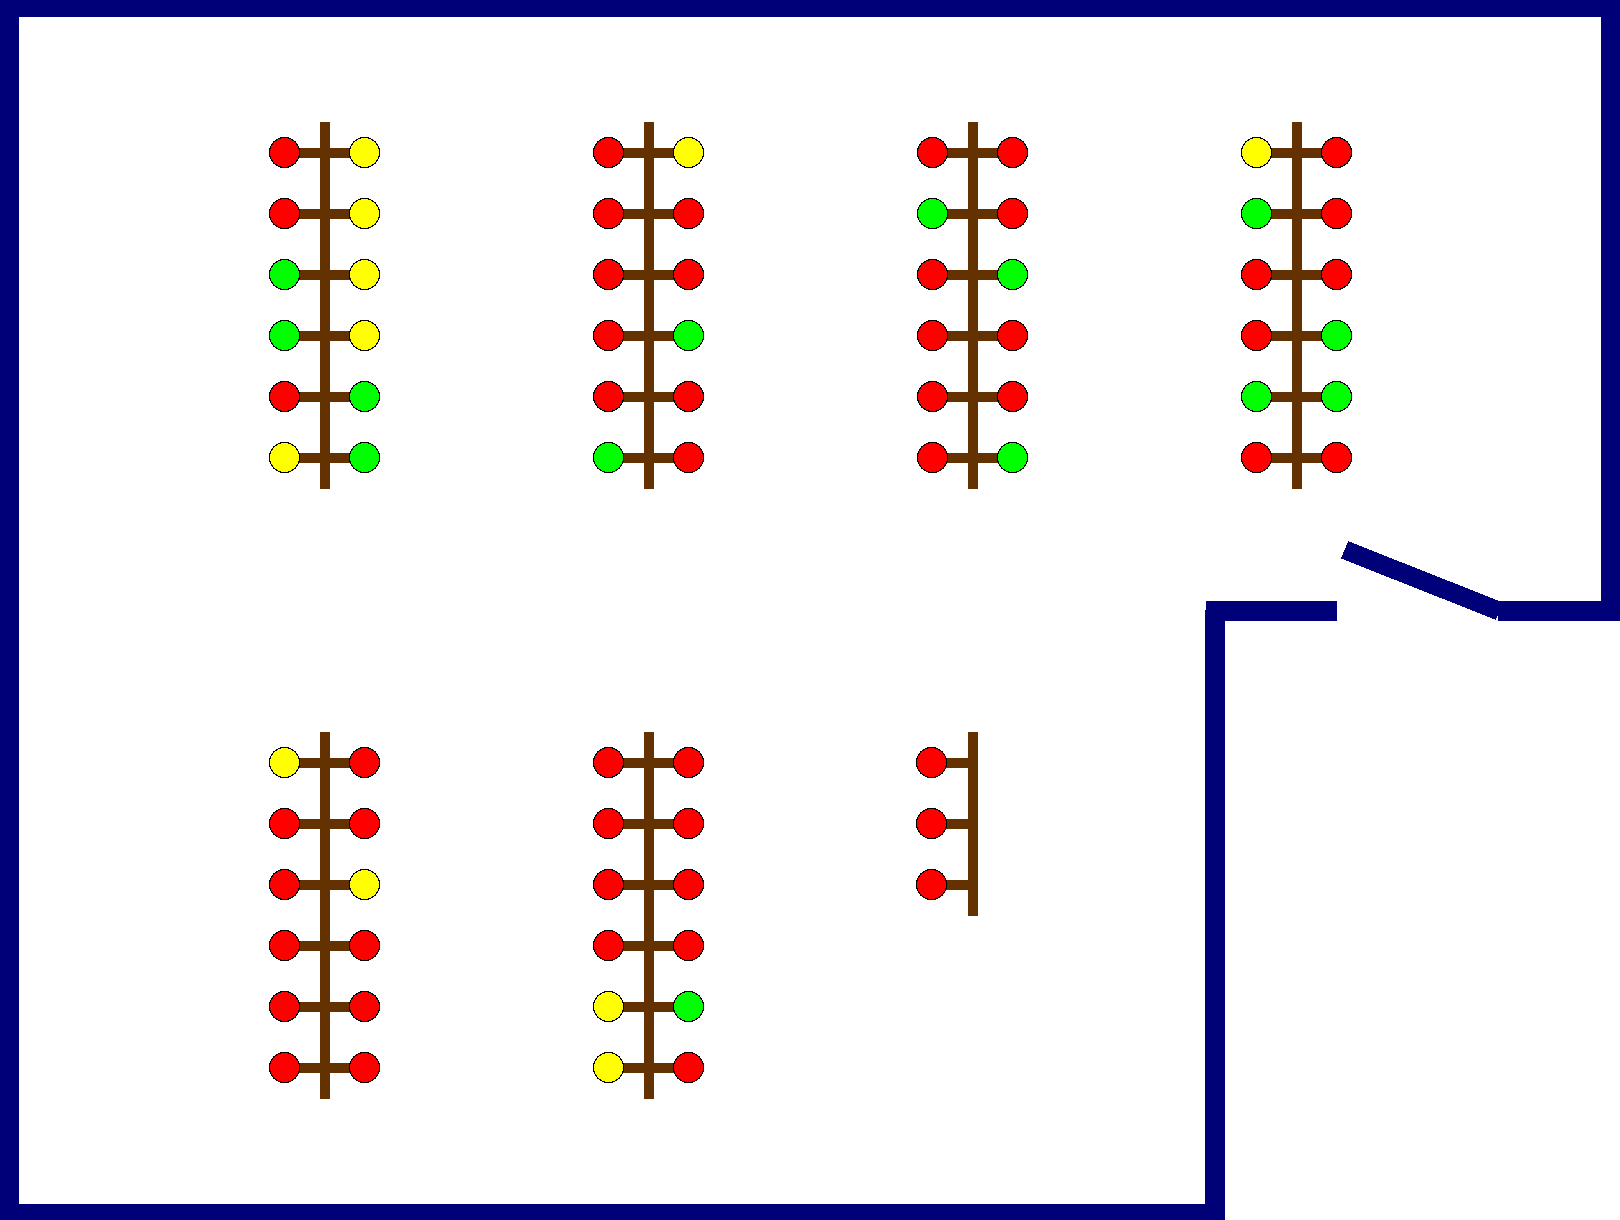
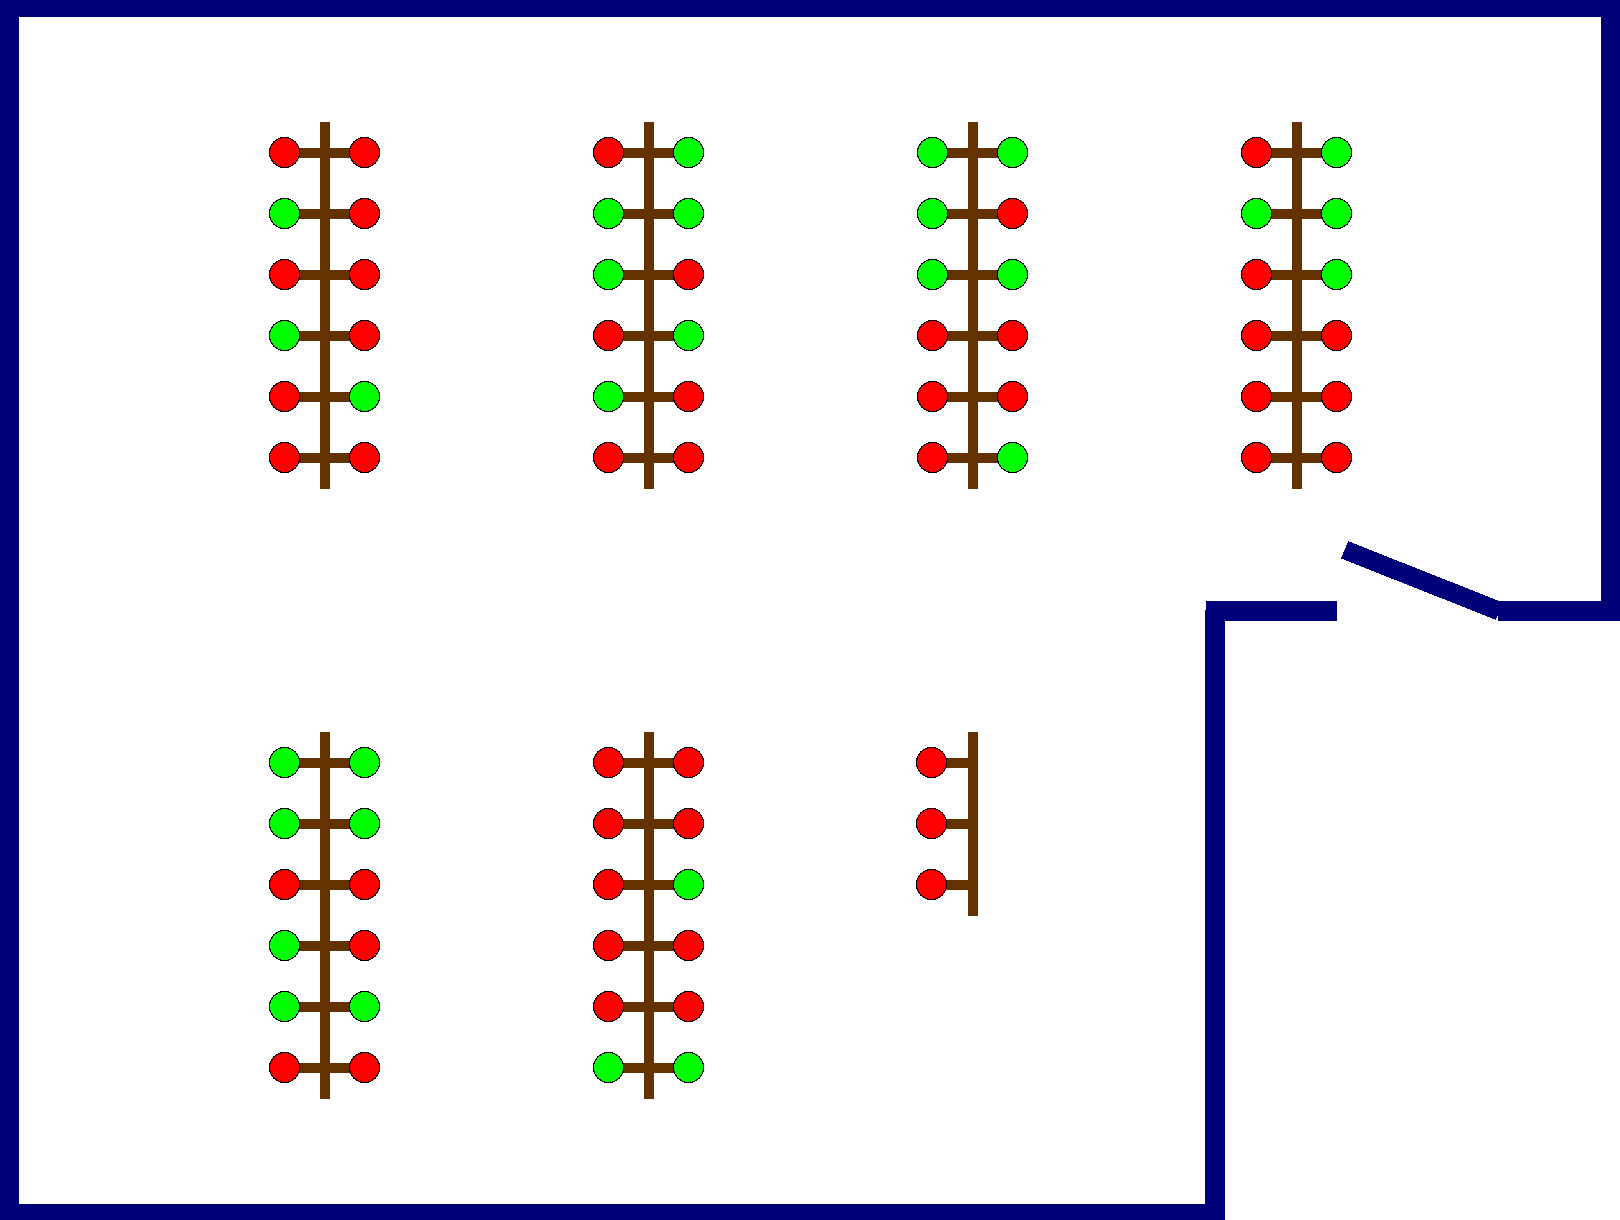
edited LF31 script to work with the new database structure

diff --git a/DrawingScripts/LF31/drawLF31.py b/DrawingScripts/LF31/drawLF31.py
@@ -167,7 +167,7 @@ def imDrawer():
 
   nodeDiameter = int(0.013*cHeight)
 
-  cursor.execute("SELECT status FROM compStatus") # point cursor to status column
+  cursor.execute("SELECT LF31 FROM compStatus") # point cursor to status column
 
   # define empty strings which we will give values to later:
   colour = (255,255,255)
@@ -229,7 +229,7 @@ desiredGroups = []
 numOfRows = cursor.execute("SELECT COUNT(*) FROM desiredGroups")  # returns number of desired groups
 
 print numOfRows
-cursor.execute("SELECT groupName FROM desiredGroups") # points cursor to correct place
+cursor.execute("SELECT LF31 FROM desiredGroups") # points cursor to correct place
 
 for i in xrange(0, numOfRows + 1):  # for each row in desiredGroups database
   desiredGroups.append(cursor.fetchone()) # adds group name to array of desired groups
